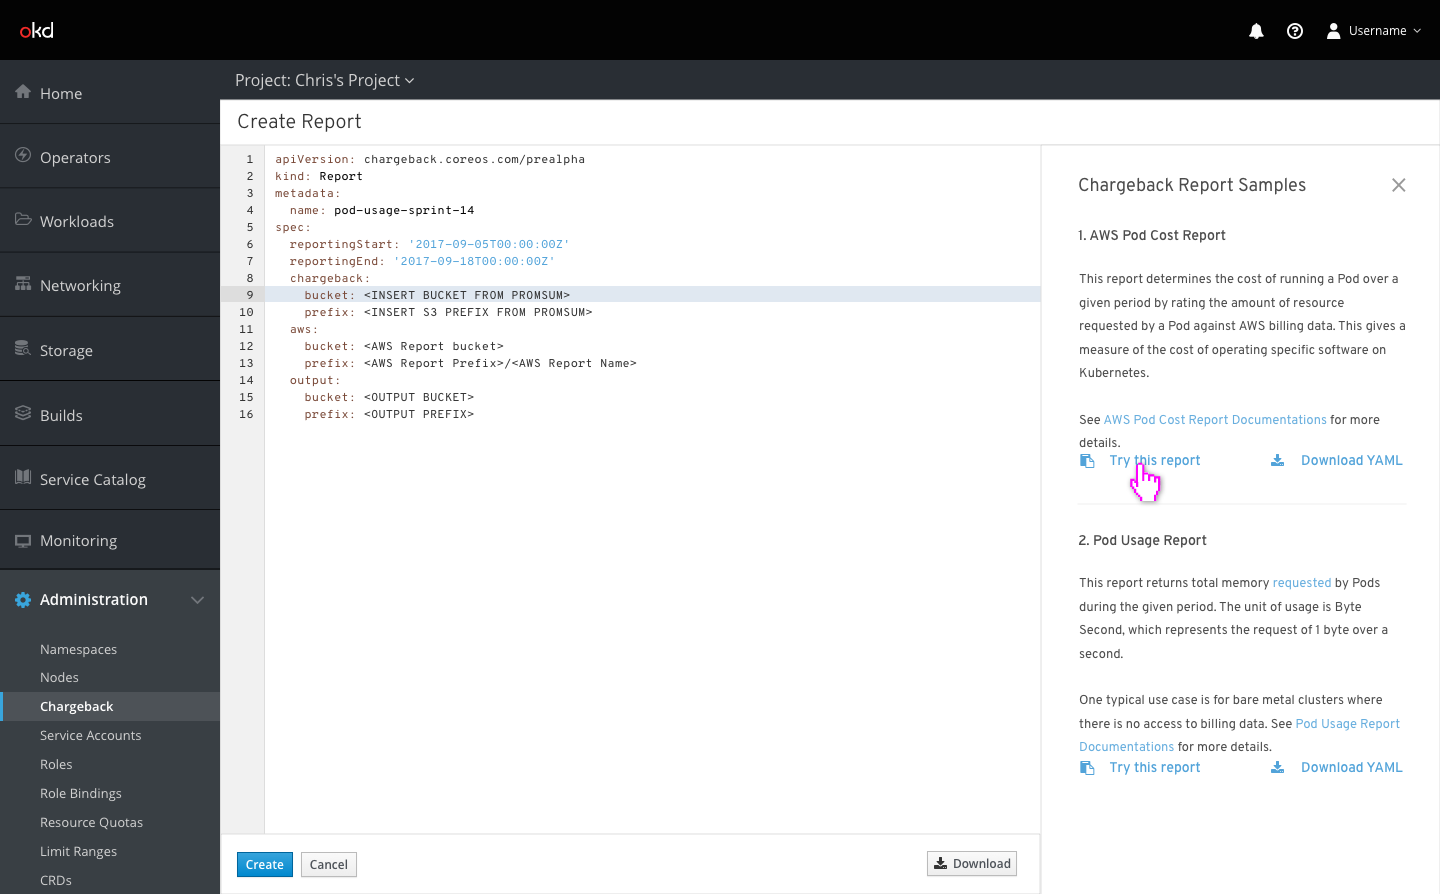
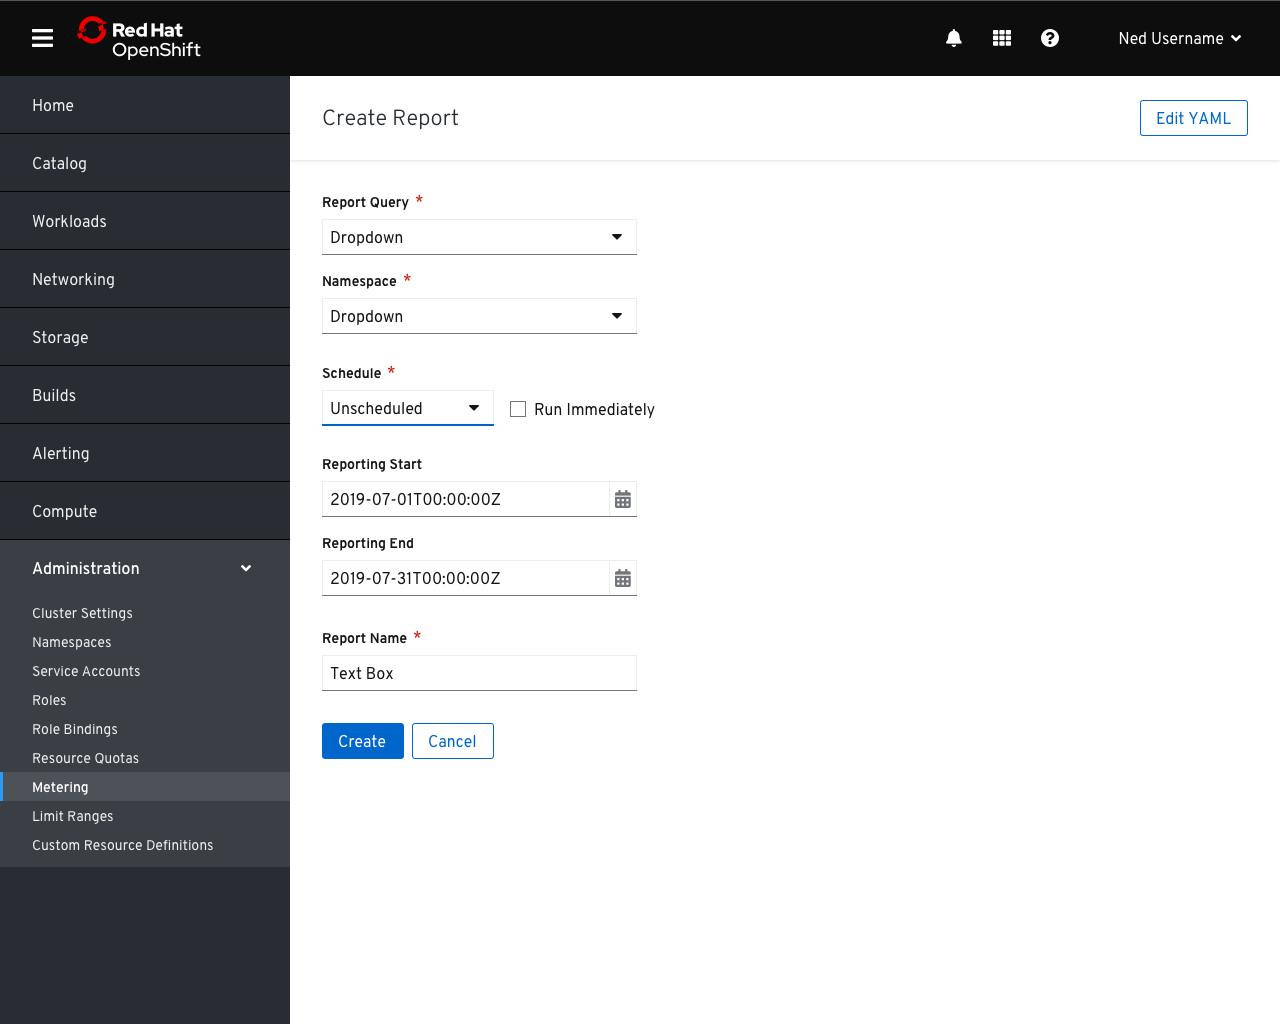
Update chargeback with report creation form designs

diff --git a/web-console/future-openshift/chargeback/chargeback.md b/web-console/future-openshift/chargeback/chargeback.md
@@ -2,20 +2,28 @@
 
 ## Reports
 ![](img/reports-list.png)
-- The chargeback page contains charts showing several cost metrics as well as a list of all chargeback reports
 
 ## Creating a Report
 ![](img/create-report.png)
-- Similar to other pages, a dismissible sidebar enables users to select from several sample reports that will be filled into the editor
+- The `Report Query` selector contains a list of the queries that could be used to create a report.
+- The namespace could be selected, or potentially filled in automatically depending on the selected query.
+![](img/create-report-5.png)
+- Checking `Run Immediately` would make the start and end dates required fields if applicable.
 
-![](img/pending-report.png)
-- One-off reports should not have a value filled in for the schedule column
+![](img/create-report-2.png)
+- In addition to creating an unscheduled report, users would be able to choose from a number of available periods or manually enter a CRON expression.
 
-## Report Details
-![](img/report-details.png)
-- Each report page contains information about the report and its scheduling as well as a table that contains the actual report itself.
+![](img/create-report-3.png)
+- Selecting a period provides the relevant fields for describing when the report should be run.
 
-![](img/report-details-instance-type.png)
-- Clicking on different tabs changes the report breakdown into different categories
-- Small charts showing relative size of each category are displayed for the currently sorted column
-- Clicking on the `Download Report` action will download a RAW version of the report displayed below using the currently selected display and sort options.
+![](img/create-report-4.png)
+- Selecting the `CRON` option would provide a text box to enter an expression.
+- A link to documents explaining cron syntax would be provided in this case
+
+## Queries
+![](img/queries-list-create.png)
+- Reports could also be created from the context of a query.
+
+![](img/create-from-query.png)
+- In this case, the `query` and `namespace` fields could be automatically populated with the details of the query.
+- Ideally, the report name would be automatically updated with the name of the query and the period. Users could override this by typing in the `Report Name` box.
